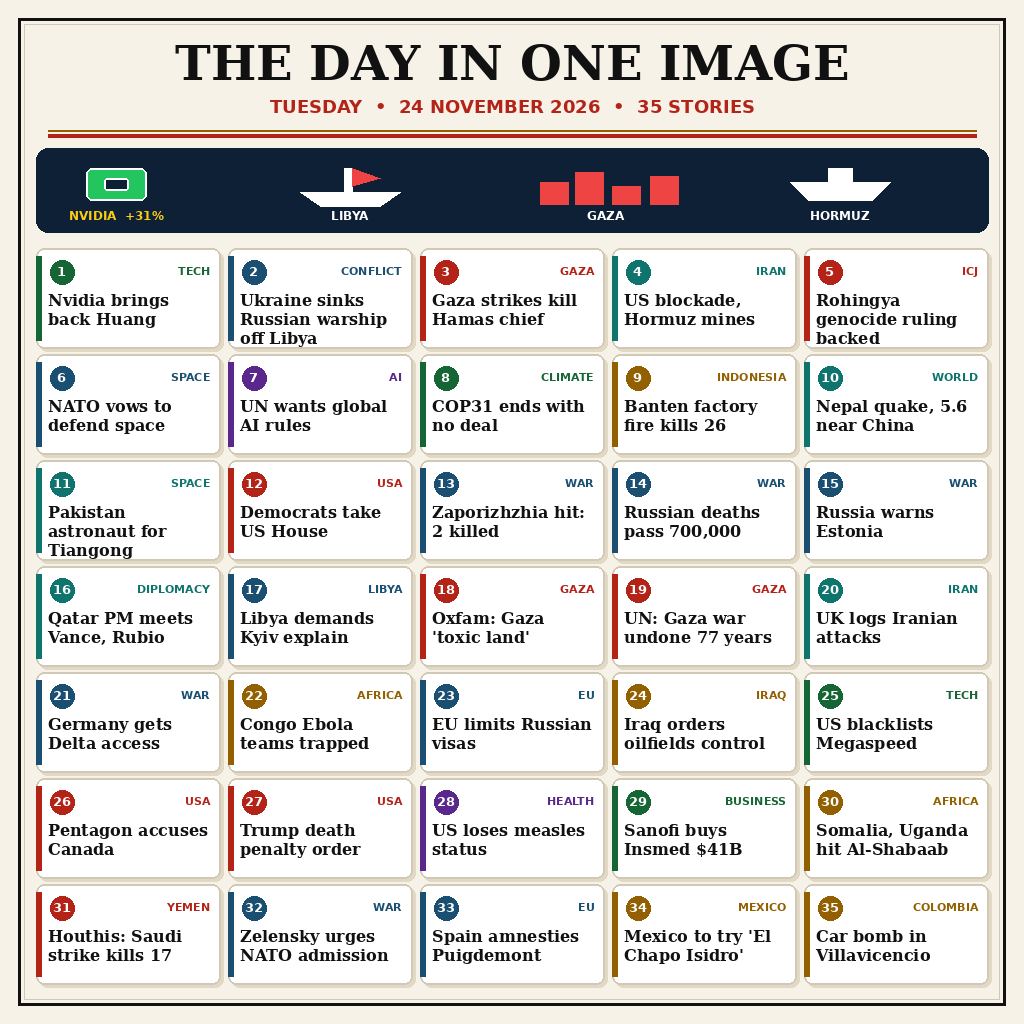
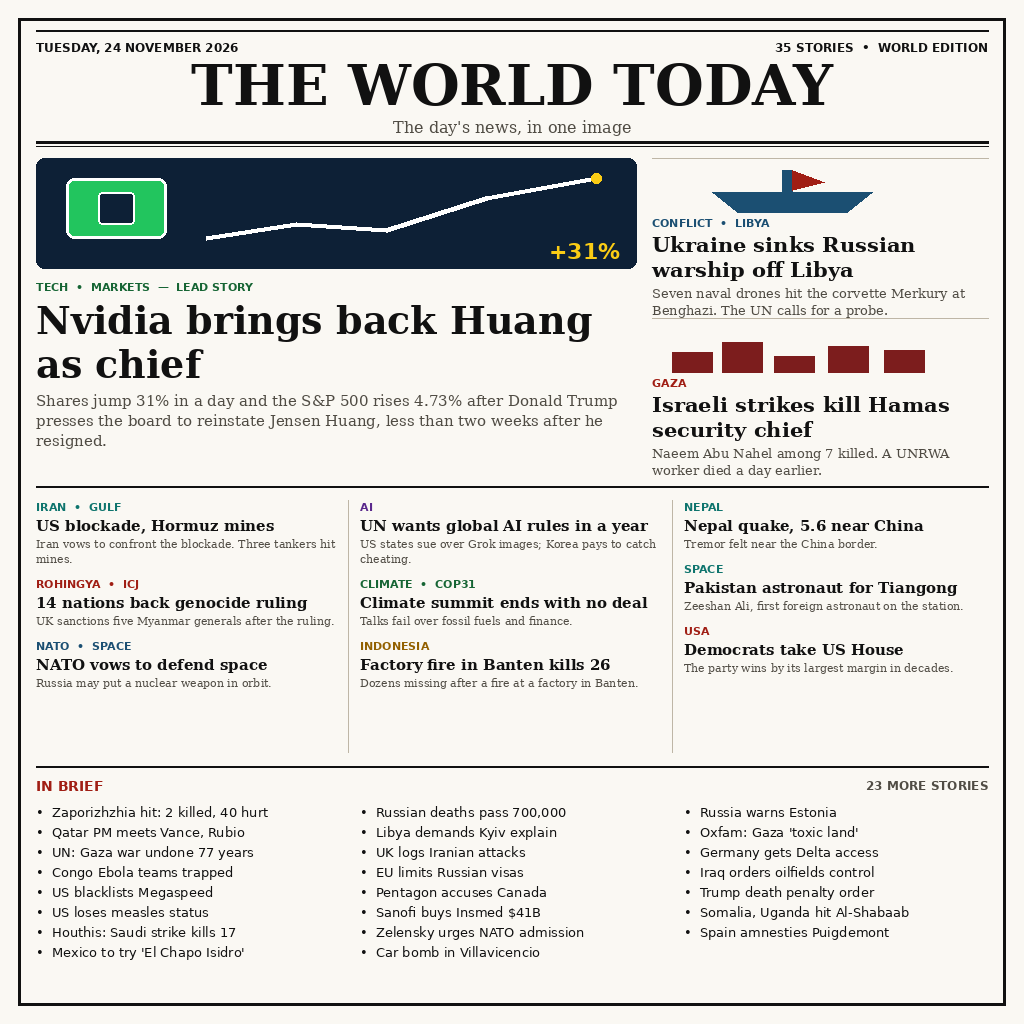
v8: international broadsheet front page, 35 stories

Changed region(s): [[0.0312, 0.0312, 0.9688, 0.9688]]

diff --git a/build_image.py b/build_image.py
@@ -1,25 +1,24 @@
-"""Build entry.png v7 (1024x1024) for news-image-20261124.
-Pretty redesign of the v6 grid: hero visual band with the 4 lead
-stories drawn as icons, then the same 35 numbered tiles, polished
-with soft shadows, filled number badges and a coloured left border.
-Deterministic: fixed date, fixed text, no network, no random.
+"""Build entry.png v8.1 (1024x1024) for news-image-20261124.
+International broadsheet front page, layout fixed with measured heights:
+  masthead 30-146, lead+secondary 158-470, 3 columns 486-750, IN BRIEF 766-962.
+  1 lead + 2 secondary + 9 column stories + 23 brief = 35 stories.
+Deterministic: fixed date, fixed text, no network.
 """
 from PIL import Image, ImageDraw, ImageFont
 import os
 
 W, H = 1024, 1024
-PAPER = (247, 242, 232)
+PAPER = (250, 248, 243)
 INK = (17, 17, 17)
-CARD = (255, 255, 255)
-LINE = (210, 200, 182)
-SHADOW = (225, 216, 198)
-RED = (180, 35, 24)
+MUTED = (80, 76, 68)
+RED = (160, 30, 20)
 BLUE = (27, 79, 114)
 TEAL = (14, 116, 109)
 GREEN = (22, 101, 52)
 GOLD = (146, 96, 0)
 PURPLE = (90, 40, 140)
 NAVY = (13, 32, 54)
+RULE = (190, 182, 166)
 
 SERIF_B = "/usr/share/fonts/truetype/dejavu/DejaVuSerif-Bold.ttf"
 SERIF = "/usr/share/fonts/truetype/dejavu/DejaVuSerif.ttf"
@@ -43,89 +42,102 @@ def wrap(draw, text, fnt, max_w):
         lines.append(cur)
     return lines
 
+def draw_lines(draw, lines, x, y, fnt, fill, lh):
+    for ln in lines:
+        draw.text((x, y), ln, font=fnt, fill=fill)
+        y += lh
+    return y
+
 img = Image.new("RGB", (W, H), PAPER)
 d = ImageDraw.Draw(img)
 d.rectangle([18, 18, W-19, H-19], outline=INK, width=3)
-d.rectangle([24, 24, W-25, H-25], outline=LINE, width=1)
 
 # masthead
-d.text((512, 34), "THE DAY IN ONE IMAGE", font=font(SERIF_B, 48), fill=INK, anchor="ma")
-d.text((512, 96), "TUESDAY  •  24 NOVEMBER 2026  •  35 STORIES", font=font(SANS_B, 18), fill=RED, anchor="ma")
-d.line([(48, 130), (976, 130)], fill=GOLD, width=2)
-d.line([(48, 135), (976, 135)], fill=RED, width=4)
+d.line([(36, 30), (988, 30)], fill=INK, width=2)
+d.text((36, 40), "TUESDAY, 24 NOVEMBER 2026", font=font(SANS_B, 12), fill=INK)
+d.text((988, 40), "35 STORIES  •  WORLD EDITION", font=font(SANS_B, 12), fill=INK, anchor="ra")
+d.text((512, 52), "THE WORLD TODAY", font=font(SERIF_B, 56), fill=INK, anchor="ma")
+d.text((512, 118), "The day's news, in one image", font=font(SERIF, 16), fill=MUTED, anchor="ma")
+d.line([(36, 142), (988, 142)], fill=INK, width=3)
+d.line([(36, 146), (988, 146)], fill=INK, width=1)
 
-# hero visual band: 4 lead stories as icons on navy
-d.rounded_rectangle([36, 148, 988, 232], radius=12, fill=NAVY)
-# 1 chip (Nvidia)
-d.rounded_rectangle([86, 168, 146, 200], radius=6, fill=(34, 197, 94), outline=(255, 255, 255), width=2)
-d.rounded_rectangle([104, 178, 128, 190], radius=3, fill=NAVY, outline=(255, 255, 255), width=2)
-d.text((116, 208), "NVIDIA  +31%", font=font(SANS_B, 12), fill=(250, 204, 21), anchor="ma")
-# 2 ship (Libya)
-d.polygon([(300, 192), (400, 192), (380, 206), (320, 206)], fill=(255, 255, 255))
-d.rectangle([344, 168, 352, 192], fill=(255, 255, 255))
-d.polygon([(352, 168), (380, 178), (352, 186)], fill=(239, 68, 68))
-d.text((350, 208), "LIBYA", font=font(SANS_B, 12), fill=(255, 255, 255), anchor="ma")
-# 3 buildings (Gaza)
-for bx, bh in ((540, 22), (575, 32), (612, 18), (650, 28)):
-    d.rectangle([bx, 204-bh, bx+28, 204], fill=(239, 68, 68))
-d.text((606, 208), "GAZA", font=font(SANS_B, 12), fill=(255, 255, 255), anchor="ma")
-# 4 tanker (Hormuz)
-d.polygon([(790, 182), (890, 182), (872, 200), (808, 200)], fill=(255, 255, 255))
-d.rectangle([828, 168, 852, 182], fill=(255, 255, 255))
-d.text((840, 208), "HORMUZ", font=font(SANS_B, 12), fill=(255, 255, 255), anchor="ma")
+# lead: Nvidia
+LX, LW = 36, 600
+d.rounded_rectangle([LX, 158, LX+LW, 268], radius=8, fill=NAVY)
+d.rounded_rectangle([LX+30, 178, LX+130, 238], radius=8, fill=(34, 197, 94), outline=(255, 255, 255), width=3)
+d.rounded_rectangle([LX+62, 192, LX+98, 224], radius=4, fill=NAVY, outline=(255, 255, 255), width=2)
+pts = [(LX+170, 238), (LX+260, 224), (LX+350, 230), (LX+450, 198), (LX+560, 178)]
+d.line(pts, fill=(255, 255, 255), width=5, joint="curve")
+d.ellipse([LX+555, 173, LX+565, 183], fill=(250, 204, 21))
+d.text((LX+LW-16, 238), "+31%", font=font(SANS_B, 22), fill=(250, 204, 21), anchor="ra")
+d.text((LX, 280), "TECH  •  MARKETS  —  LEAD STORY", font=font(SANS_B, 11), fill=GREEN)
+yy = draw_lines(d, wrap(d, "Nvidia brings back Huang as chief", font(SERIF_B, 38), LW), LX, 298, font(SERIF_B, 38), INK, 44)
+draw_lines(d, wrap(d, "Shares jump 31% in a day and the S&P 500 rises 4.73% after Donald Trump presses the board to reinstate Jensen Huang, less than two weeks after he resigned.", font(SERIF, 15), LW), LX, yy+6, font(SERIF, 15), MUTED, 20)
 
-stories = [
-    ("TECH", GREEN, "Nvidia brings back Huang"),
-    ("CONFLICT", BLUE, "Ukraine sinks Russian warship off Libya"),
-    ("GAZA", RED, "Gaza strikes kill Hamas chief"),
-    ("IRAN", TEAL, "US blockade, Hormuz mines"),
-    ("ICJ", RED, "Rohingya genocide ruling backed"),
-    ("SPACE", BLUE, "NATO vows to defend space"),
-    ("AI", PURPLE, "UN wants global AI rules"),
-    ("CLIMATE", GREEN, "COP31 ends with no deal"),
-    ("INDONESIA", GOLD, "Banten factory fire kills 26"),
-    ("WORLD", TEAL, "Nepal quake, 5.6 near China"),
-    ("SPACE", TEAL, "Pakistan astronaut for Tiangong"),
-    ("USA", RED, "Democrats take US House"),
-    ("WAR", BLUE, "Zaporizhzhia hit: 2 killed"),
-    ("WAR", BLUE, "Russian deaths pass 700,000"),
-    ("WAR", BLUE, "Russia warns Estonia"),
-    ("DIPLOMACY", TEAL, "Qatar PM meets Vance, Rubio"),
-    ("LIBYA", BLUE, "Libya demands Kyiv explain"),
-    ("GAZA", RED, "Oxfam: Gaza 'toxic land'"),
-    ("GAZA", RED, "UN: Gaza war undone 77 years"),
-    ("IRAN", TEAL, "UK logs Iranian attacks"),
-    ("WAR", BLUE, "Germany gets Delta access"),
-    ("AFRICA", GOLD, "Congo Ebola teams trapped"),
-    ("EU", BLUE, "EU limits Russian visas"),
-    ("IRAQ", GOLD, "Iraq orders oilfields control"),
-    ("TECH", GREEN, "US blacklists Megaspeed"),
-    ("USA", RED, "Pentagon accuses Canada"),
-    ("USA", RED, "Trump death penalty order"),
-    ("HEALTH", PURPLE, "US loses measles status"),
-    ("BUSINESS", GREEN, "Sanofi buys Insmed $41B"),
-    ("AFRICA", GOLD, "Somalia, Uganda hit Al-Shabaab"),
-    ("YEMEN", RED, "Houthis: Saudi strike kills 17"),
-    ("WAR", BLUE, "Zelensky urges NATO admission"),
-    ("EU", BLUE, "Spain amnesties Puigdemont"),
-    ("MEXICO", GOLD, "Mexico to try 'El Chapo Isidro'"),
-    ("COLOMBIA", GOLD, "Car bomb in Villavicencio"),
+# secondary, right column, each 150px tall
+RX, RW = 652, 336
+def secondary(y, col, kick, head, sub, visual):
+    d.line([(RX, y), (RX+RW, y)], fill=RULE, width=1)
+    visual(RX, y+6, RW)
+    d.text((RX, y+58), kick, font=font(SANS_B, 11), fill=col)
+    yy = draw_lines(d, wrap(d, head, font(SERIF_B, 21), RW), RX, y+74, font(SERIF_B, 21), INK, 25)
+    draw_lines(d, wrap(d, sub, font(SERIF, 13), RW), RX, yy+3, font(SERIF, 13), MUTED, 17)
+
+def vis_ship(x, y, w):
+    d.polygon([(x+60, y+28), (x+220, y+28), (x+195, y+48), (x+85, y+48)], fill=BLUE)
+    d.rectangle([x+130, y+6, x+140, y+28], fill=BLUE)
+    d.polygon([(x+140, y+6), (x+172, y+18), (x+140, y+26)], fill=RED)
+
+def vis_gaza(x, y, w):
+    for bx, bh in ((x+20, 20), (x+70, 30), (x+122, 16), (x+176, 26), (x+232, 22)):
+        d.rectangle([bx, y+48-bh, bx+40, y+48], fill=(124, 29, 29))
+
+secondary(158, BLUE, "CONFLICT  •  LIBYA", "Ukraine sinks Russian warship off Libya",
+          "Seven naval drones hit the corvette Merkury at Benghazi. The UN calls for a probe.", vis_ship)
+secondary(318, RED, "GAZA", "Israeli strikes kill Hamas security chief",
+          "Naeem Abu Nahel among 7 killed. A UNRWA worker died a day earlier.", vis_gaza)
+
+# 3 columns, 9 stories
+d.line([(36, 486), (988, 486)], fill=INK, width=2)
+cols = [
+    [("IRAN  •  GULF", TEAL, "US blockade, Hormuz mines", "Iran vows to confront the blockade. Three tankers hit mines."),
+     ("ROHINGYA  •  ICJ", RED, "14 nations back genocide ruling", "UK sanctions five Myanmar generals after the ruling."),
+     ("NATO  •  SPACE", BLUE, "NATO vows to defend space", "Russia may put a nuclear weapon in orbit.")],
+    [("AI", PURPLE, "UN wants global AI rules in a year", "US states sue over Grok images; Korea pays to catch cheating."),
+     ("CLIMATE  •  COP31", GREEN, "Climate summit ends with no deal", "Talks fail over fossil fuels and finance."),
+     ("INDONESIA", GOLD, "Factory fire in Banten kills 26", "Dozens missing after a fire at a factory in Banten.")],
+    [("NEPAL", TEAL, "Nepal quake, 5.6 near China", "Tremor felt near the China border."),
+     ("SPACE", TEAL, "Pakistan astronaut for Tiangong", "Zeeshan Ali, first foreign astronaut on the station."),
+     ("USA", RED, "Democrats take US House", "The party wins by its largest margin in decades.")],
 ]
+for ci, col in enumerate(cols):
+    x = 36 + ci * 324
+    if ci:
+        d.line([(x-12, 500), (x-12, 752)], fill=RULE, width=1)
+    y = 500
+    for kick, colr, head, sub in col:
+        d.text((x, y), kick, font=font(SANS_B, 11), fill=colr)
+        yy = draw_lines(d, wrap(d, head, font(SERIF_B, 15), 300), x, y+16, font(SERIF_B, 15), INK, 19)
+        y = draw_lines(d, wrap(d, sub, font(SERIF, 11), 300), x, yy+2, font(SERIF, 11), MUTED, 15) + 10
 
-cw, ch, gx, gy = 184, 100, 8, 6
-for i, (tag, col, head) in enumerate(stories):
-    x = 36 + (i % 5) * (cw + gx)
-    y = 248 + (i // 5) * (ch + gy)
-    d.rounded_rectangle([x+3, y+3, x+cw+3, y+ch+3], radius=8, fill=SHADOW)
-    d.rounded_rectangle([x, y, x+cw, y+ch], radius=8, fill=CARD, outline=LINE, width=2)
-    d.rectangle([x, y+8, x+5, y+ch-8], fill=col)
-    d.ellipse([x+14, y+12, x+38, y+36], fill=col)
-    d.text((x+26, y+15), f"{i+1}", font=font(SANS_B, 13), fill=(255, 255, 255), anchor="ma")
-    d.text((x+cw-10, y+16), tag, font=font(SANS_B, 11), fill=col, anchor="ra")
-    yy = y + 42
-    for ln in wrap(d, head, font(SERIF_B, 16), cw-22):
-        d.text((x+12, yy), ln, font=font(SERIF_B, 16), fill=INK)
-        yy += 19
+# IN BRIEF: remaining 23 stories
+d.line([(36, 766), (988, 766)], fill=INK, width=2)
+d.text((36, 778), "IN BRIEF", font=font(SANS_B, 14), fill=RED)
+d.text((988, 778), "23 MORE STORIES", font=font(SANS_B, 12), fill=MUTED, anchor="ra")
+brief = [
+    "Zaporizhzhia hit: 2 killed, 40 hurt", "Russian deaths pass 700,000", "Russia warns Estonia",
+    "Qatar PM meets Vance, Rubio", "Libya demands Kyiv explain", "Oxfam: Gaza 'toxic land'",
+    "UN: Gaza war undone 77 years", "UK logs Iranian attacks", "Germany gets Delta access",
+    "Congo Ebola teams trapped", "EU limits Russian visas", "Iraq orders oilfields control",
+    "US blacklists Megaspeed", "Pentagon accuses Canada", "Trump death penalty order",
+    "US loses measles status", "Sanofi buys Insmed $41B", "Somalia, Uganda hit Al-Shabaab",
+    "Houthis: Saudi strike kills 17", "Zelensky urges NATO admission", "Spain amnesties Puigdemont",
+    "Mexico to try 'El Chapo Isidro'", "Car bomb in Villavicencio",
+]
+for i, item in enumerate(brief):
+    x = 36 + (i % 3) * 324
+    y = 804 + (i // 3) * 20
+    d.text((x, y), "•  " + item, font=font(SANS, 13), fill=INK)
 
 out = os.path.join(os.path.dirname(os.path.abspath(__file__)), "..", "entry.png")
 img.save(out, "PNG", optimize=True)
